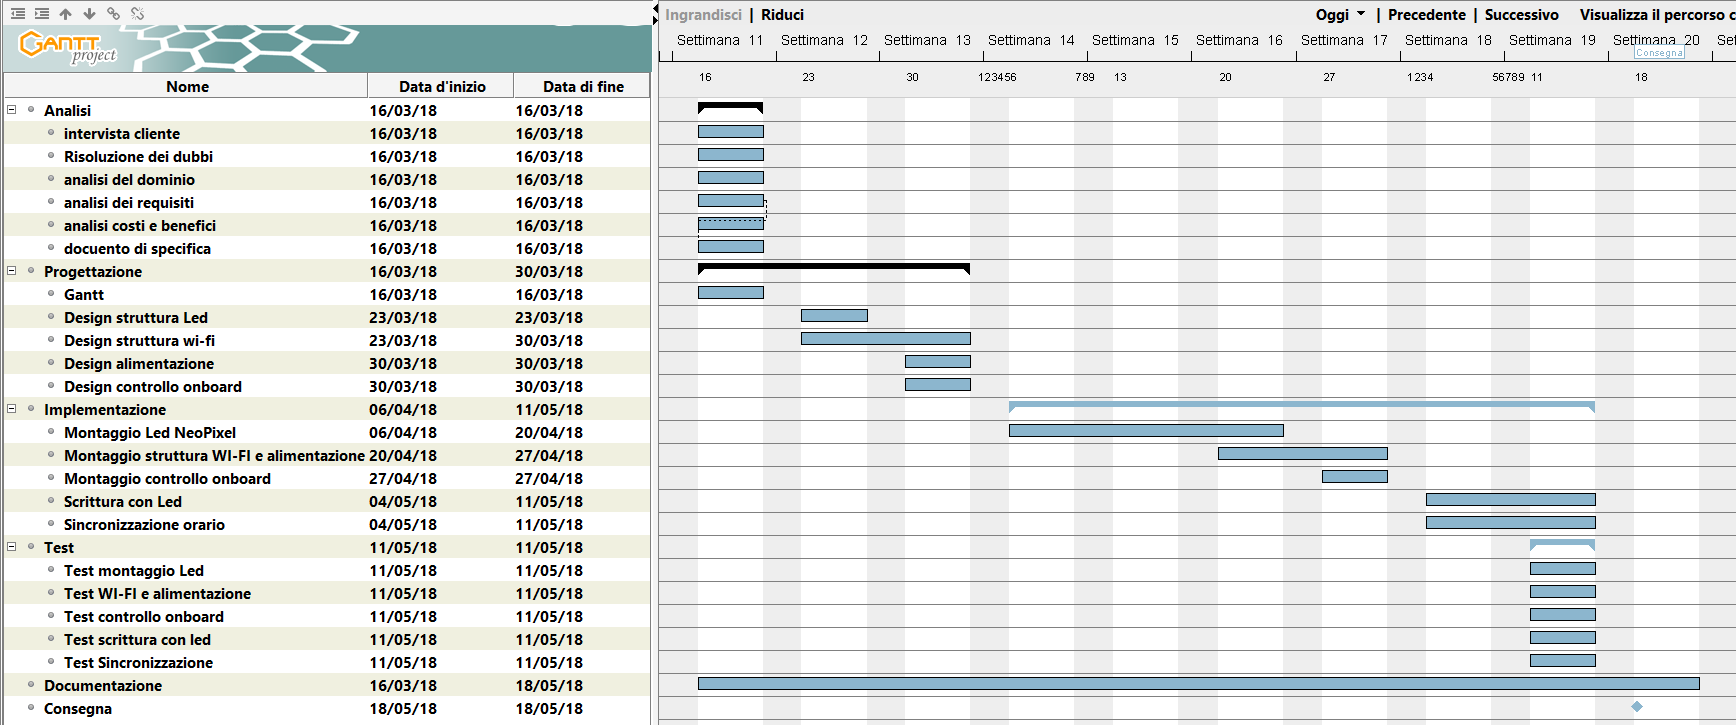
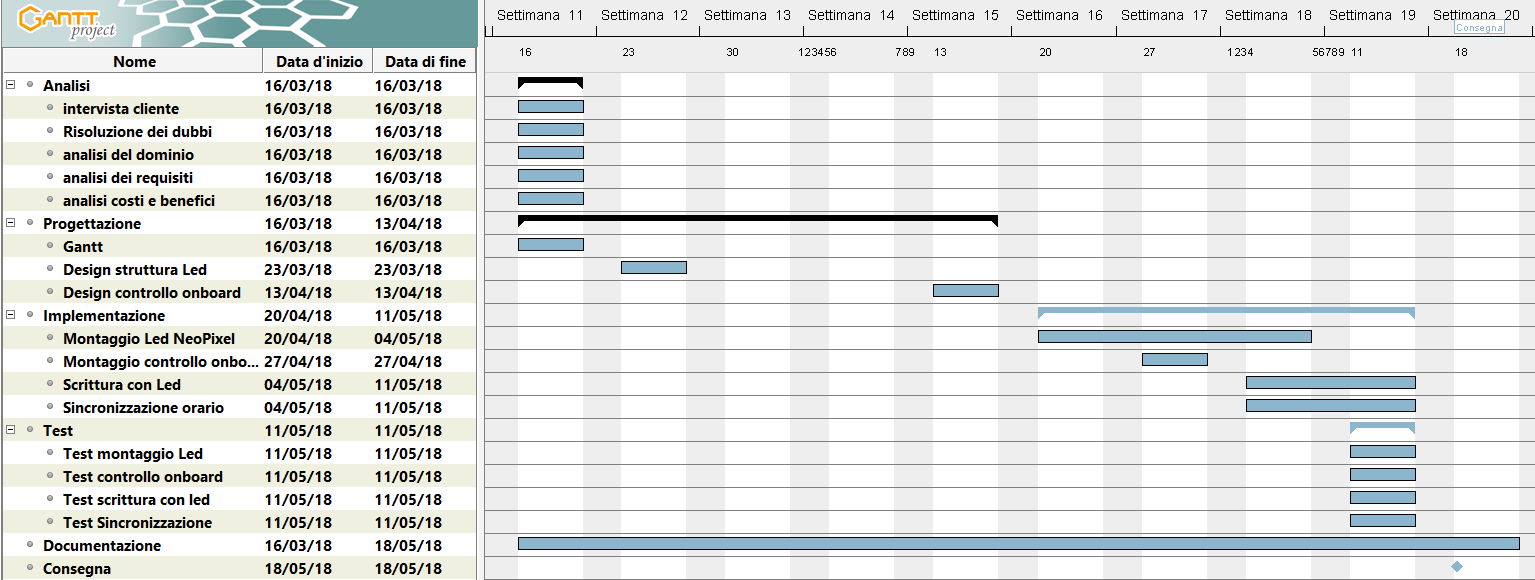
no message

diff --git a/Word-Clock2/doc/Doc.md b/Word-Clock2/doc/Doc.md
@@ -151,7 +151,7 @@ Data di fine: 18.05.2017
 
 |ID  |REQ-004                                         |
 |:----|:------------------------------------------------|
-|**Nome**    |Controllo OnBoard |
+|**Nome**    |Controllo on board |
 |**Priorità** |1                     |
 |**Versione** |1.0                   |
 |**Note**    ||
@@ -398,7 +398,8 @@ Il metodo setup() é identico a quello mostrato in precedenza nell'esempio.
 ![Schema](Allegati/setOra()2.PNG)
 
 Questo metodo non é stato concluso a livello di codice per mancanza di tempo, ma si può trovare concluso a livello
-concettuale all'interno del file di testo "_Gestione illuminazione ore e minuti.txt_" (vedere allegati).
+concettuale all'interno del file di testo "_Gestione illuminazione ore e minuti.txt_" presente nella stessa
+cartella del codice sorgente.
 
 ##### Gestione simboli + e -
 
@@ -425,11 +426,32 @@ e, in base all'ora che ritorna, entra in uno dei 12 case dello switch(ora) prese
 
 ### Protocollo di test
 
+![Schema](Allegati/TestCase1.PNG)
+![Schema](Allegati/TestCase2.PNG)
+
 ### Risultati test
+
+![Schema](Allegati/RisultatiTest.PNG)
 
 ### Mancanze conosciute
 
+Prima della consegna finale del progetto abbiamo riscontrato due mancanze molto importanti conosciute che
+riguardano quest’ultimo. La prima mancanza é quella dell'alimentazione esterna in caso di interruzione 
+di quella principale, non implementata a acausa delle tempistiche. La seconda mancanza é quella della 
+sincronizzazione tramite l'antenna DCF77 all'orario di Francoforte, inizialmente abbiamo lavorato su questa
+parte del progetto ma dopo molte lezioni abbiamo lasciato questa parte perché non riuscivamo a ricevere nulla.
+La terza mancanza é quella di concludere il codice che gestisce l'illuminazione delle parole del WordClock. 
+
 ## Consuntivo
+
+![Gantt](Allegati/ganttConsuntivo.PNG)
+
+### Commento consuntivo
+
+Abbiamo avuto molte difficoltà per quanto riguarda la parte della sincronizzazione tramite antenna DCF77, infatti
+abbiamo passato molte lezioni a lavorare su questo. Dopo abbiamo deciso di lasciare da parte questa parte e
+concentrarci sul montaggio e la gestione delle strisce di led neopixel, soltanto che abbiamo potuto cominciare sia
+il codice sia il montaggio tardi dato che i materiali sono arrivati un po' in ritardo.
 
 ## Conclusioni
 
@@ -442,3 +464,8 @@ e, in base all'ora che ritorna, entra in uno dei 12 case dello switch(ora) prese
 ### Sitografia
 
 ## Allegati
+
++ Diari di lavoro
++ Codici sorgente
++ Mandato
++ Presentazione
